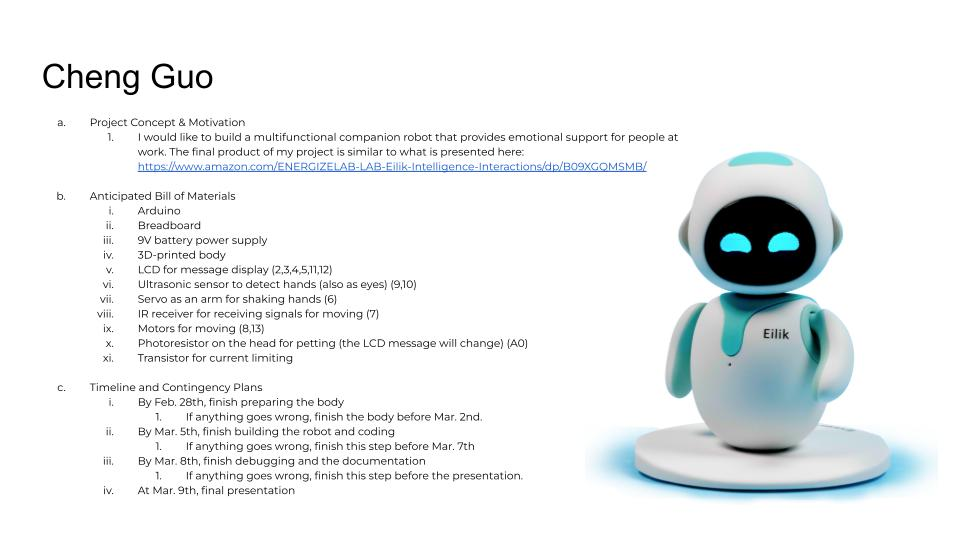
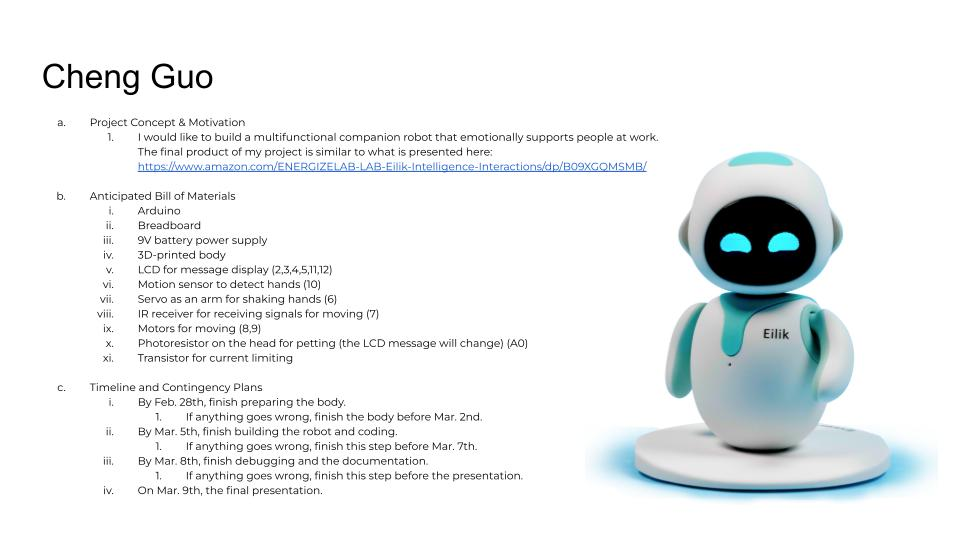
Add a minor change

diff --git a/p5-examples-and-addons/double-graph/sketch.js b/p5-examples-and-addons/double-graph/sketch.js
@@ -1,5 +1,5 @@
 var serial; // variable to hold an instance of the serialport library
-var portName = '/dev/tty.usbmodem14301'; //rename to the name of your port
+var portName = '/dev/tty.usbmodem14201'; //rename to the name of your port
 var dataarray = []; //some data coming in over serial!
 var xPos = 0;
 
@@ -16,7 +16,7 @@ function setup() {
   serial.list();                      // list the serial ports
   serial.open(portName);              // open a serial port
   createCanvas(1200, 800);
-  background(0x08, 0x16, 0x40);
+  background(255, 0, 0);
 }
  
 // get the list of ports:
@@ -69,17 +69,17 @@ function graphData(newData) {
   if (xPos >= width) {
     xPos = 0;
     // clear the screen by resetting the background:
-    background(0x08, 0x16, 0x40);
+    background(255, 0, 0);
   } else {
     // pass
   }
 }
 
 function draw() {
-  stroke('rgba(0,255,0,0.25)'); // green
+  stroke('rgba(255,255,255,1)'); // green
   graphData(dataarray[0]);
 
-  stroke('rgba(0,80,255,0.5)'); // blue
+  stroke('rgba(0,0,0,1)'); // blue
   graphData(dataarray[1]);
   xPos++;
 }

diff --git a/final-project.html b/final-project.html
@@ -32,10 +32,10 @@
                 <li>9V battery power supply</li>
                 <li>3D-printed body</li>
                 <li>LCD for message display (2,3,4,5,11,12)</li>
-                <li>Ultrasonic sensor to detect hands (also as eyes) (9,10)</li>
+                <li>Motion sensor to detect hands (10)</li>
                 <li>Servo as an arm for shaking hands (6)</li>
                 <li>IR receiver for receiving signals for moving (7)</li>
-                <li>Motors for moving (8,13)</li>
+                <li>Motors for moving (8,9)</li>
                 <li>Photoresistor on the head for petting (the LCD message will change) (A0)</li>
                 <li>Transistor for current limiting</li>
             </ol>
